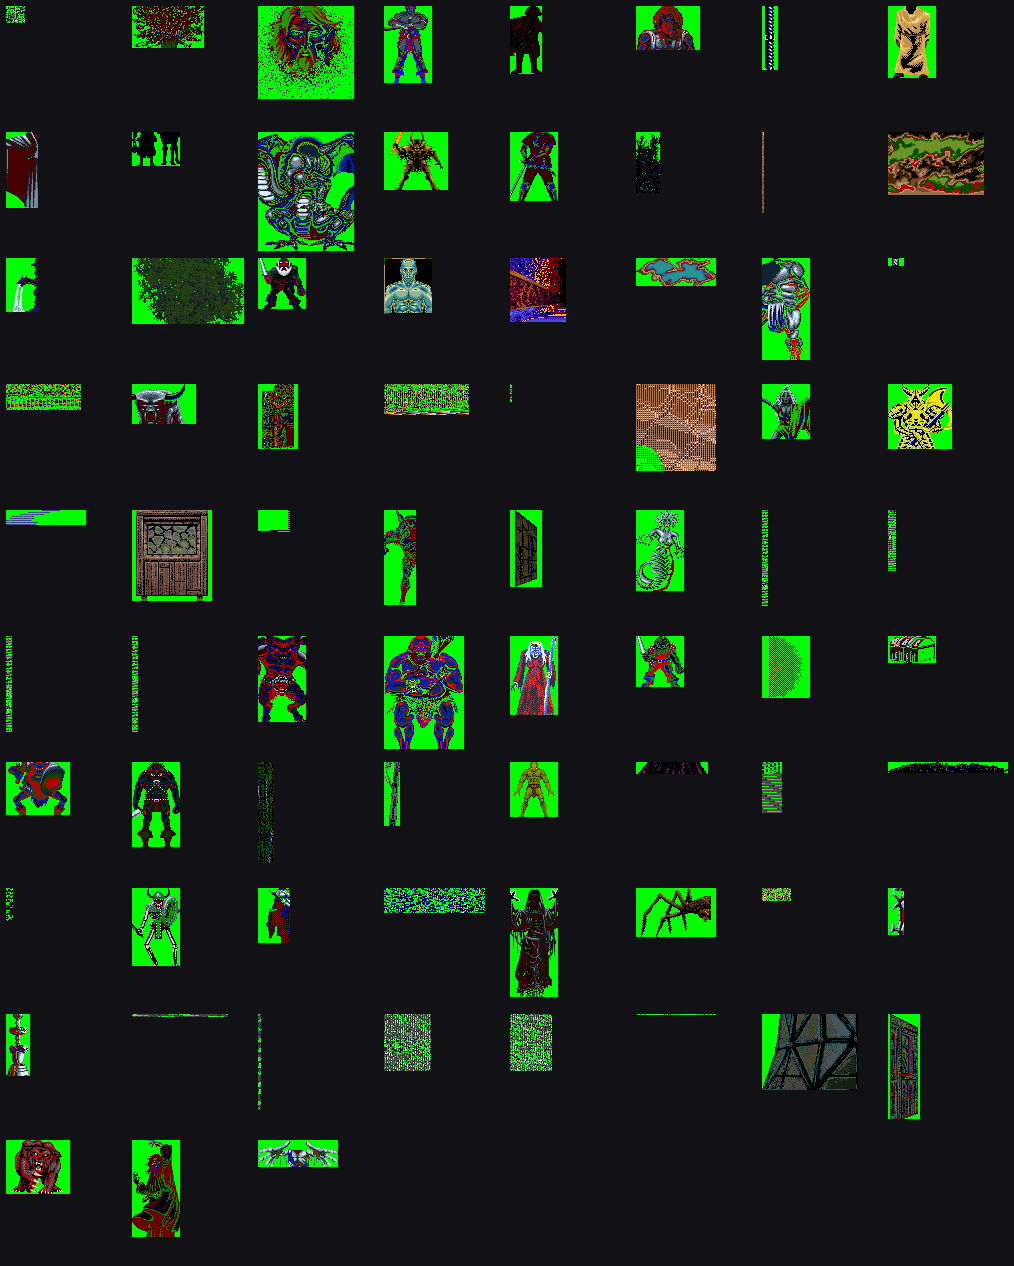
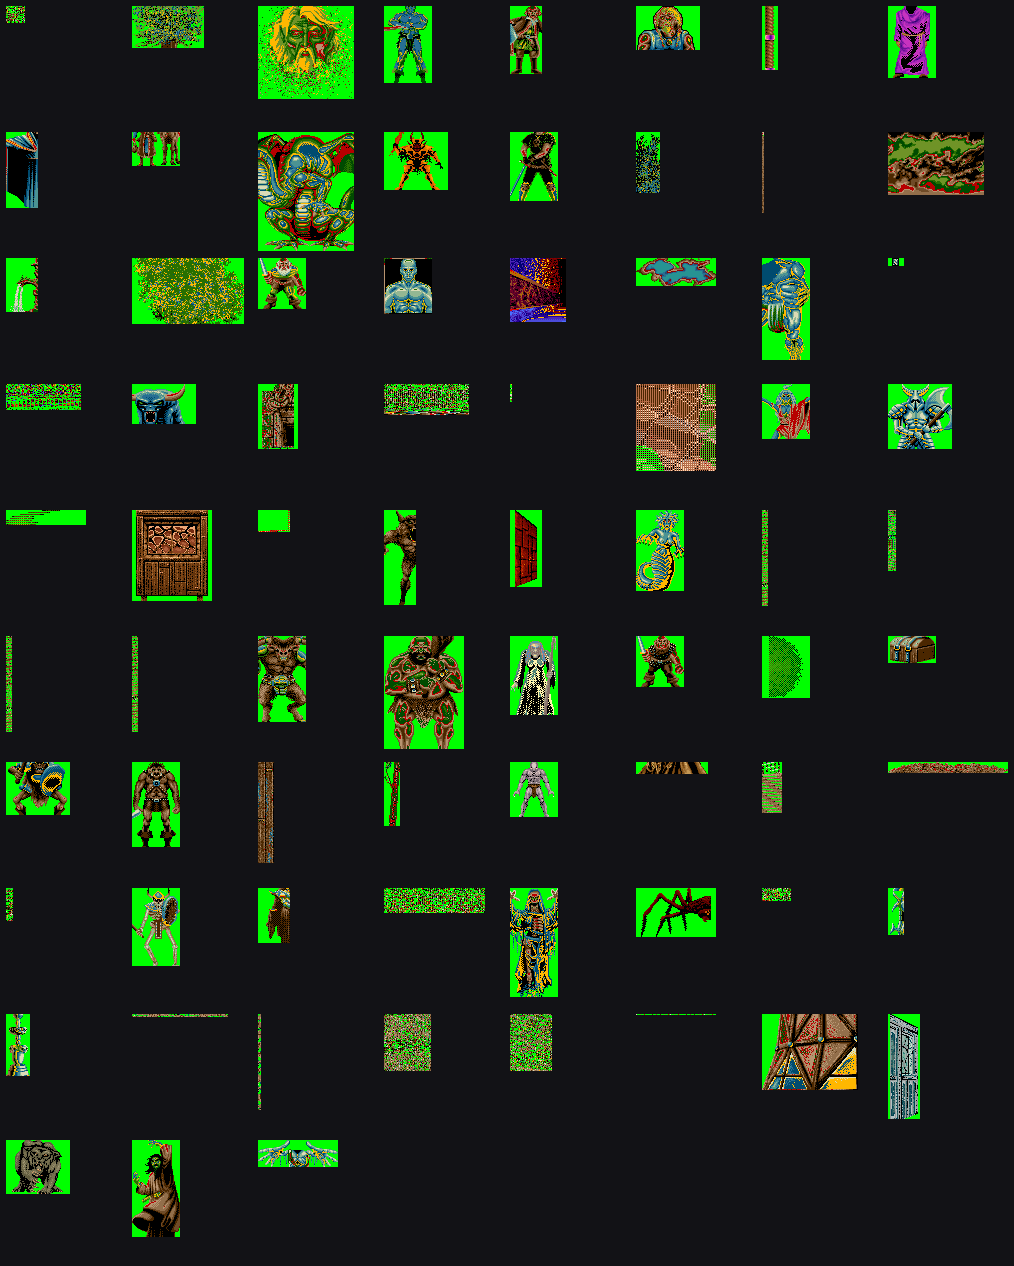
geren.io is the palette bank; borrowers default to it
geren.io holds 12 unique 768-byte palettes and gerdep.io another 5, and four of
the seven palettes embedded in scene files are byte-identical entries in them:
fond.io -> geren#0, fcave.io and fcave2.io -> geren#2, ftemple.io -> geren#11,
frise.io -> gerdep#0. So a scene file embeds a copy of the bank entry it uses,
and the ~100 assets carrying no palette borrow one at runtime.

ioscan.py now defaults those to bank#0 rather than the best-scoring block in a
file that has none -- the weak in-file fallback is gone, since guessing there is
what produced the arbitrary colours. This is a placeholder, not the answer:
every borrower gets the same palette, so anything that is not an outdoor-scene
sprite is plausible rather than correct. T11m2 has the method for the real
pairing.

T11m4 added: the bank's offsets step by a recurring +724 and +48, so it has a
record structure of its own, and some +48 pairs are likely detector artefacts
rather than distinct palettes -- worth reading before trusting the count of 12.

Claude-Session: https://claude.ai/code/session_01XKFczojm5HfUVExjFz8FH4

diff --git a/tools/ioscan.py b/tools/ioscan.py
@@ -111,17 +111,12 @@ def find_palette(data, chain_end=0):
         if s >= 24:
             cands.append((pos, s))
         pos = data.find(b"\x00\x00\x00", pos + 1)
+    # No weak fallback: a file with no palette of its own borrows one from the
+    # bank, which is what the game does. Guessing at the best-scoring block in
+    # such a file is what produced the arbitrary colours.
     if not cands:
-        best, bs = None, 0
-        pos = data.find(b"\x00\x00\x00")
-        while 0 <= pos <= limit:
-            s = palette_score(data, pos, bs)
-            if s > bs:
-                best, bs = pos, s
-            pos = data.find(b"\x00\x00\x00", pos + 1)
-        if best is None or bs < 8:
-            return None
-        cands = [(best, palette_score(data, best))]
+        return None
+
     # Overlapping candidates 48 or 144 bytes early still satisfy the black-start
     # rule (geren.io scored one at 6540 as well as the true 6684), and a shifted
     # candidate is always the earlier one, so take the last.
@@ -153,7 +148,43 @@ def render(data, off, w, h, pal):
     return rows
 
 
-def do_file(path, outdir):
+_BANK = []
+
+
+def bank():
+    """geren.io is the game's palette bank: 12 unique 768-byte blocks, four of
+    which are byte-identical to the palettes found inside scene files
+    (fond -> geren#0, fcave/fcave2 -> geren#2, ftemple -> geren#11, frise ->
+    gerdep#0). Assets that carry no palette of their own -- about 100 of 110 --
+    borrow one, so the bank is a far better default than the best-scoring block
+    in a file that has none. Which entry belongs to which sprite is T11m2; until
+    that lands, entry 0 (the outdoor scene) is the placeholder."""
+    if _BANK:
+        return _BANK
+    for name in ("geren.io", "gerdep.io"):
+        try:
+            d = decode(open(os.path.join(GAME, name), "rb").read())[0]
+        except Exception:
+            continue
+        limit, pos = len(d) - 768, d.find(b"\x00\x00\x00")
+        while 0 <= pos <= limit:
+            if palette_score(d, pos, 24) >= 24:
+                b = bytes(d[pos:pos + 768])
+                if b not in _BANK:
+                    _BANK.append(b)
+            pos = d.find(b"\x00\x00\x00", pos + 1)
+    return _BANK
+
+
+def bank_palette(n=0):
+    b = bank()
+    if not b:
+        return None
+    c = b[min(n, len(b) - 1)]
+    return [tuple(c[i:i + 3]) for i in range(0, 768, 3)]
+
+
+def do_file(path, outdir, bank_index=0):
     name = os.path.splitext(os.path.basename(path))[0].lower()
     try:
         data = decode(open(path, "rb").read())[0]
@@ -163,7 +194,12 @@ def do_file(path, outdir):
     taken = [(o, o + 8 + ((w + 1) // 2) * h) for o, w, h in sprites]
     chain_end = taken[-1][1] if taken else 0
     found = find_palette(data, chain_end)
-    pal = found[1] if found else [(i * 16 % 256,) * 3 for i in range(256)]
+    if found:
+        pal, where = found[1], str(found[0])
+    else:
+        pal, where = bank_palette(bank_index), f"bank#{bank_index}"
+        if pal is None:
+            pal, where = [(i * 16 % 256,) * 3 for i in range(256)], "grey"
     os.makedirs(outdir, exist_ok=True)
     for off, w, h in sprites:
         png.write(os.path.join(outdir, f"{name}-{off:06d}-{w}x{h}.png"),
@@ -171,19 +207,22 @@ def do_file(path, outdir):
     covered = sum(e - s for s, e in taken)
     return (f"{name}: {len(sprites):3d} sprites, "
             f"{100 * covered // max(1, len(data)):3d}% of {len(data)} bytes, "
-            f"palette {found[0] if found else '-'}")
+            f"palette {where}")
 
 
 def main():
     argv = [a for a in sys.argv[1:] if not a.startswith("--")]
     if not argv:
         sys.exit(__doc__)
+    n = 0
+    if "--bank" in sys.argv:
+        n = int(sys.argv[sys.argv.index("--bank") + 1])
     if "--all" in sys.argv:
         for f in sorted(x for x in os.listdir(GAME) if x.lower().endswith(".io")):
-            print(do_file(os.path.join(GAME, f), argv[0]), flush=True)
+            print(do_file(os.path.join(GAME, f), argv[0], n), flush=True)
     else:
         src = argv[0] if os.path.exists(argv[0]) else os.path.join(GAME, argv[0])
-        print(do_file(src, argv[1] if len(argv) > 1 else "."))
+        print(do_file(src, argv[1] if len(argv) > 1 else ".", n))
 
 
 if __name__ == "__main__":

diff --git a/ROADMAP.md b/ROADMAP.md
@@ -305,6 +305,10 @@ Compose rewrite has to do.
       monster, object and character sprite is drawn against whatever the current scene loaded.
       That, not a bad detector, is why most extractions have right shapes and wrong colours:
       `tools/ioscan.py` falls back to the best-scoring block in a file that has none.
+      `geren.io` turns out to be the palette **bank** -- 12 unique blocks, and four scene
+      files embed byte-identical copies of entries in it (FORMATS.md 3.9). `tools/ioscan.py`
+      now defaults palette-less assets to `bank#0`, which is a visible improvement and still
+      a placeholder.
       *Method: T10b already recorded which files the game reads and when. Pair each sprite
       asset with the scene palette that is live when it is drawn -- or just break on the
       blitter and record the DAC alongside each sprite, which gives the pairing directly.*
@@ -317,6 +321,14 @@ Compose rewrite has to do.
       exits as soon as it cannot still reach the bar. A full `--all` run went from over ten
       minutes (killed) to **2.7s**, picking the same offsets for the three validated files.
       **Done when:** `tools/ioscan.py --all` completes in under 60s. *Met.*
+
+- [ ] **T11m4 · The palette bank's own record structure**
+      `geren.io`'s 12 palettes sit at 6684, 7408, 7456, 9180, 9904, 9952, 10724, 11448,
+      11496, 12172, 12220, 12268 -- recurring `+724` and `+48` steps, so the bank has a
+      layout rather than being a loose pile, and `+48` pairs may be detector artefacts
+      rather than distinct palettes.
+      **Done when:** the bank's entries can be enumerated from its structure instead of by
+      scanning for the white/black signature, and the count is confirmed.
 
 - [ ] **T11n · The 8bpp path used by the title screen**
       `logo.io`'s sprite is 8bpp and does not go through `seg_0e97:038b`. Some other

diff --git a/FORMATS.md b/FORMATS.md
@@ -568,6 +568,29 @@ monsters, objects, characters -- carries none and is drawn against whatever pale
 current scene loaded. Extracting one of those in isolation therefore cannot get its
 colours right without knowing the scene (T11m2).
 
+#### `geren.io` is the palette bank
+
+`geren.io` holds **12 unique 768-byte palettes** and `gerdep.io` another 5, and four of
+the seven palettes found inside scene files are byte-identical entries in them:
+
+| scene file | its palette | is |
+|---|---|---|
+| `fond.io` | 12108 | `geren#0` |
+| `fcave.io` | 1310 | `geren#2` |
+| `fcave2.io` | 5712 | `geren#2` |
+| `ftemple.io` | 16244 | `geren#11` |
+| `frise.io` | 34700 | `gerdep#0` |
+| `fville.io` | 1304, 1352 | not in the bank |
+| `itaverne.io` | 5946 | not in the bank |
+
+So scene files embed a copy of the bank entry they use, and the ~100 assets that carry
+no palette borrow one at runtime. `tools/ioscan.py` defaults those to `bank#0` -- a
+placeholder, not the answer: which entry a given sprite is drawn against is T11m2.
+
+`geren.io`'s offsets are `6684, 7408, 7456, 9180, 9904, 9952, 10724, 11448, 11496,
+12172, 12220, 12268` -- note the recurring `+724` and `+48` steps, which suggests the
+bank has a record structure of its own that has not been read yet.
+
 **A scene file can carry more than one palette.** `fond.io` has valid blocks at 556 and 12108,
 `geren.io` at 6540-ish, 6684 and 12268, `logo.io` at 992 and an identical copy at
 20172. The one in use for a given scene is *not* determined yet -- for `fond.io` the
